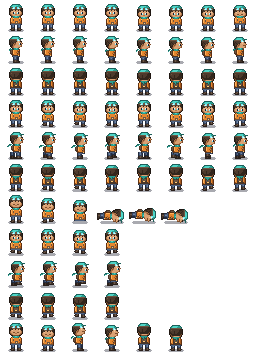
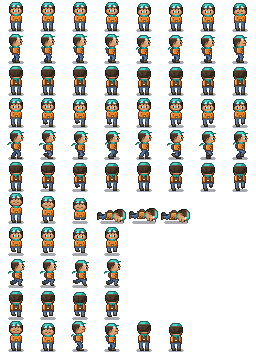
Jointed IK legs and a smoother walk cycle for all survivors
- Legs are now a thigh + shin per side, solved with 2-bone IK from a hip
  joint that moves with the torso bob and lean, so they never detach
  from the body; rasterised as outlined, shaded limbs with real boots
- Run cycle: planted foot sweeps back along the ground, the lifted foot
  swings forward on an eased arc; front/back views foreshorten the lifted
  leg and show the sole
- Legs are 2 px longer to give the knees room to bend; weapon mount and
  menu/select previews raised to match
- Dash uses a long gliding stride, death kneels with the hips dropped

diff --git a/README.md b/README.md
@@ -55,7 +55,7 @@ Upgrades never go to waste: they are stored as weapon-agnostic modifiers, so whe
 
 **Feel & visuals**
 - Hand-made pixel art: hero, slimes, FX and UI drawn in Aseprite, plus a forest arena built from the Mystic Woods tileset.
-- **Hand-animated survivors**: 8-frame runs with overlapping action (the head trails the body), forward lean, flapping scarves and capes, swaying plumes, plus dedicated dash, hurt and 6-frame death animations.
+- **Hand-animated survivors**: jointed legs (thigh + shin solved with 2-bone IK, so knees bend and hips stay attached), 8-frame runs with arcing foot paths and overlapping action (the head trails the body), forward lean, flapping scarves and capes, swaying plumes, plus dedicated dash, hurt and 6-frame death animations.
 - **Squash & stretch** on every step, dash, hit and turn, with footstep dust and footstep sounds.
 - **Juice everywhere** (the Vlambeer recipe): muzzle flares, ejected brass casings, recoil, camera kick, smooth noise-based screen shake, hit-stop, damage numbers, goo splats that stay on the floor.
 - **HDR bloom** on bullets, explosions, orbs, lightning and gems.
